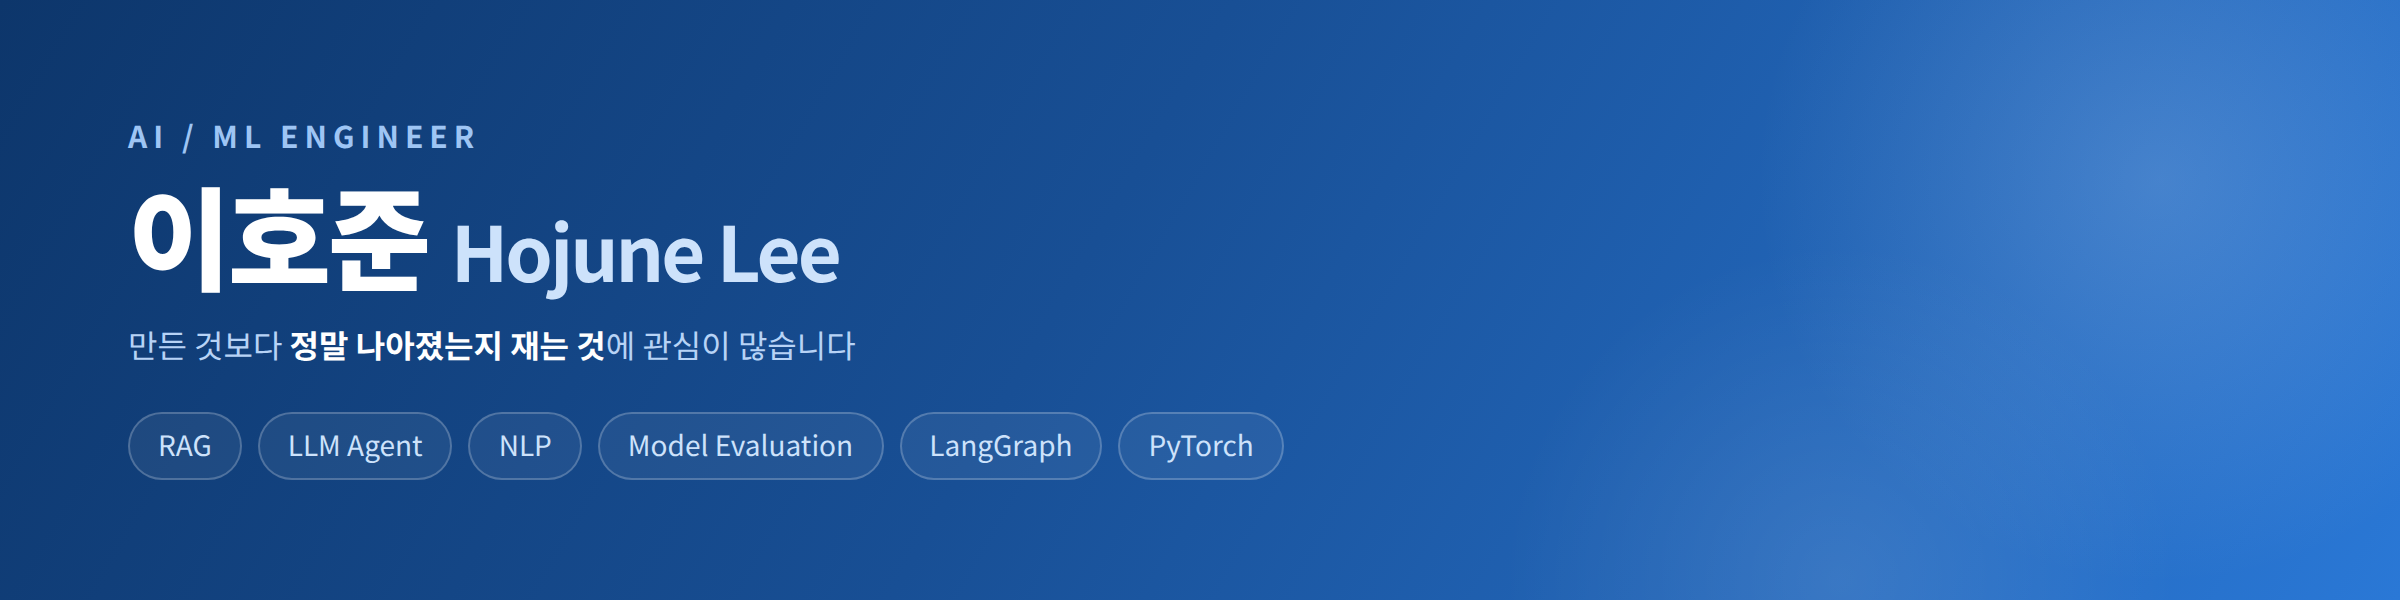
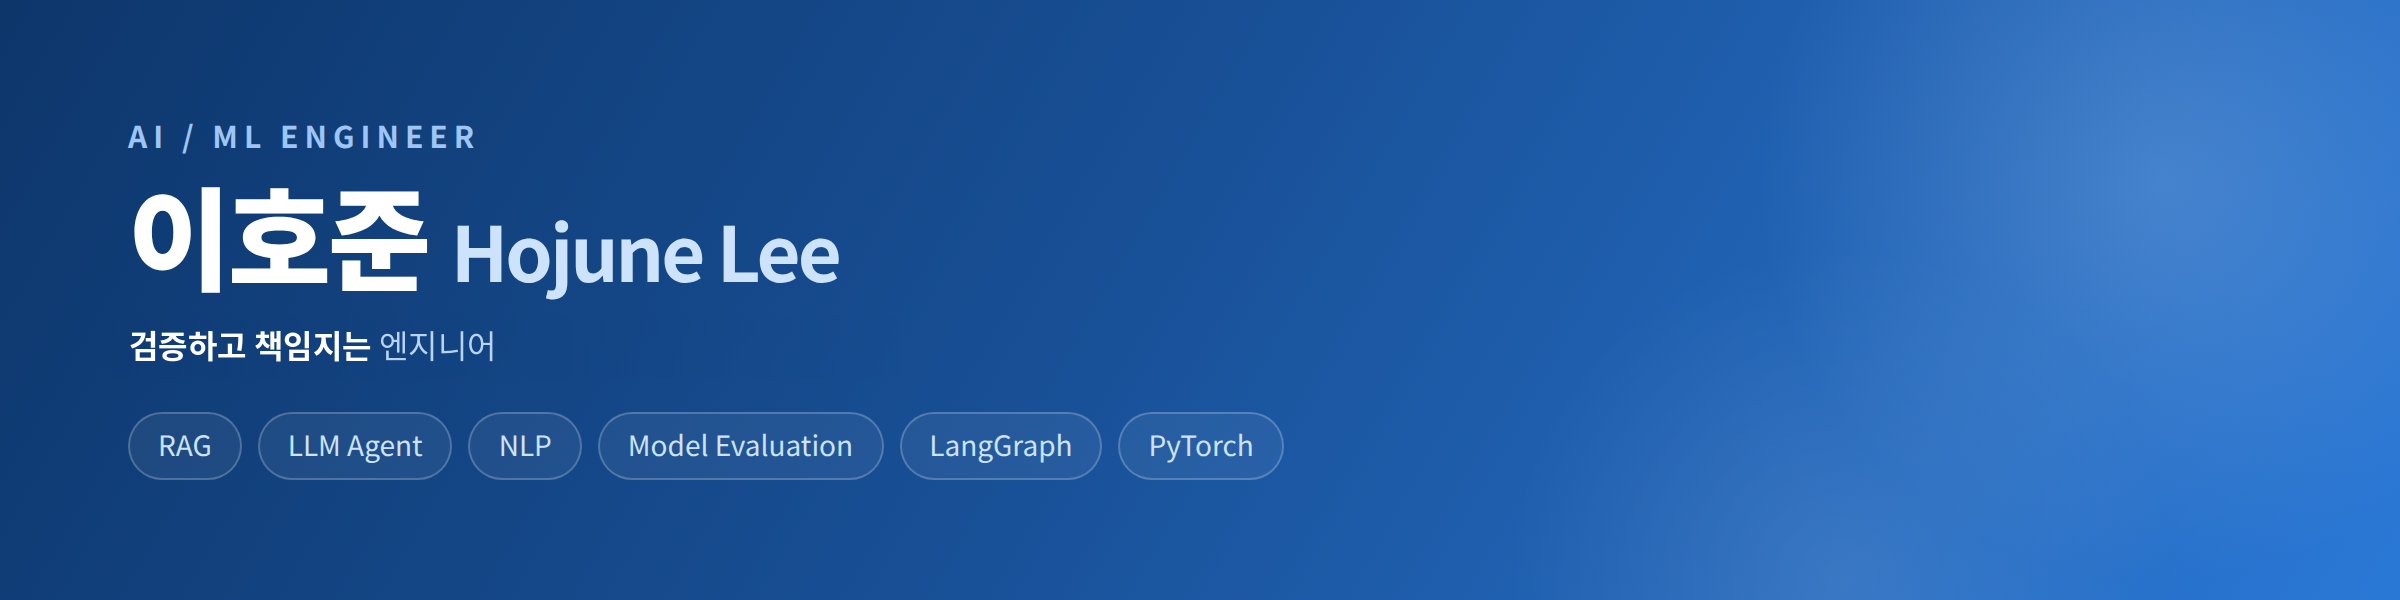
배너 문구를 '검증하고 책임지는 엔지니어'로 변경하고 GitHub Stats 제거
Claude-Session: https://claude.ai/code/session_01A25q8xxDhkduJVHjznwA1L

Changed region(s): [[0.0312, 0.54, 0.375, 0.6]]

diff --git a/README.md b/README.md
@@ -63,14 +63,6 @@ N-gram Language Modeling으로 도메인 어휘를 반영하고, Neural Rescorin
 
 ---
 
-## 📊 GitHub Stats
-
-<p align="center">
-  <img src="https://streak-stats.demolab.com?user=HojuneLee0106&hide_border=true&ring=2a78d6&fire=2a78d6&currStreakLabel=2a78d6" alt="Streak"/>
-</p>
-
----
-
 ## 🏅 Activities & Certification
 
 ### 🎓 LG Aimers 7기 · Data Intelligence <sub>2025.07.01 ~ 2025.08.25 수료</sub>
